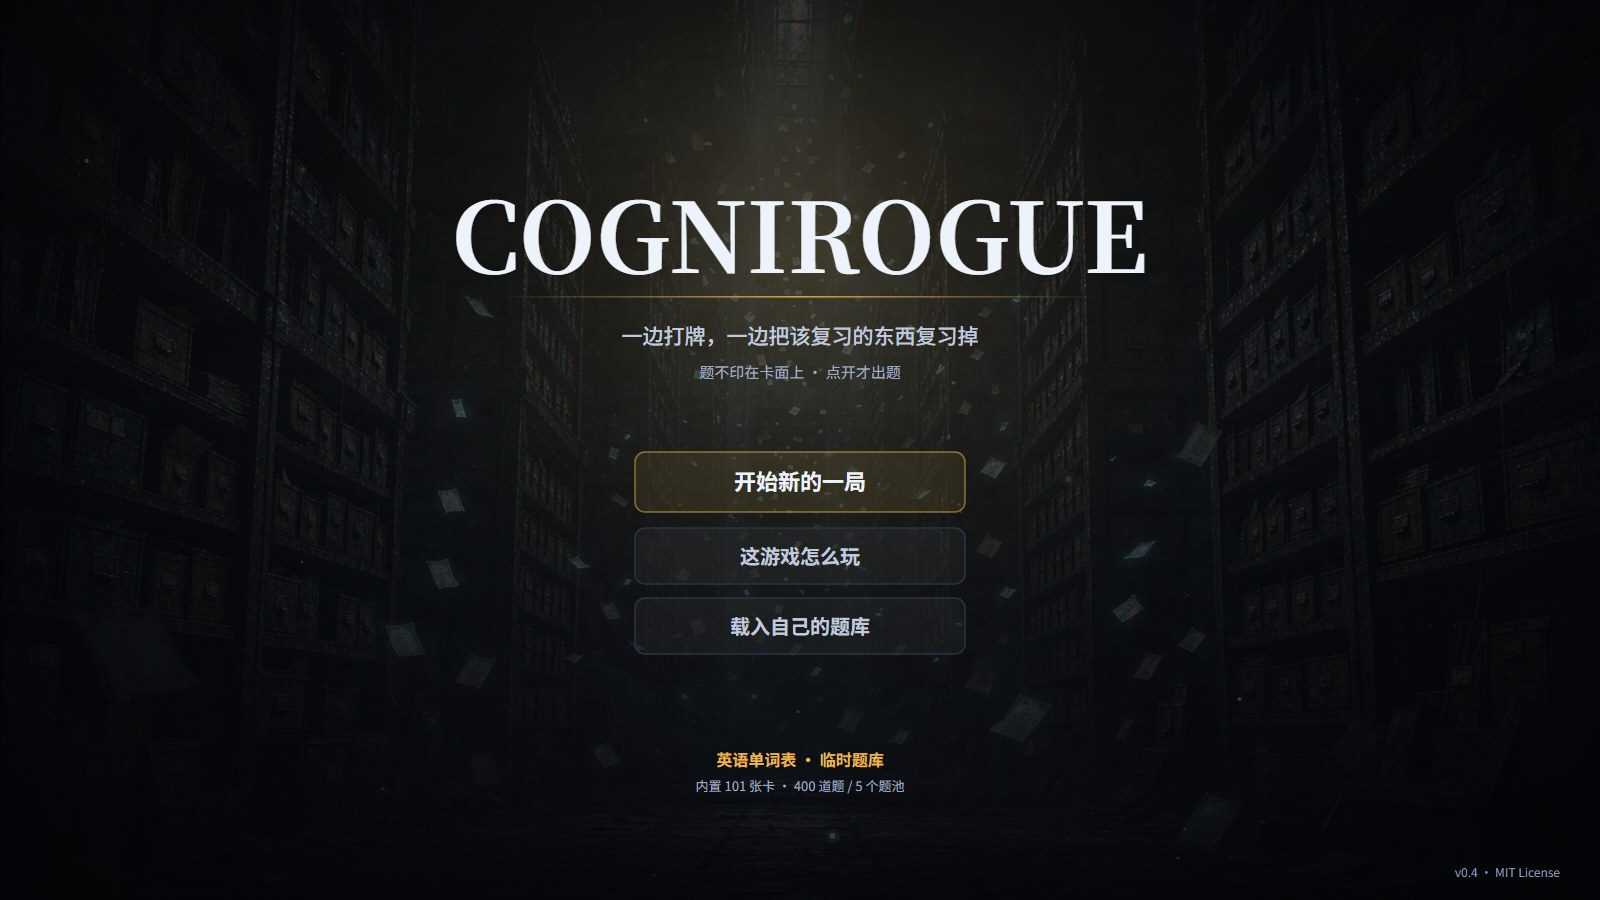
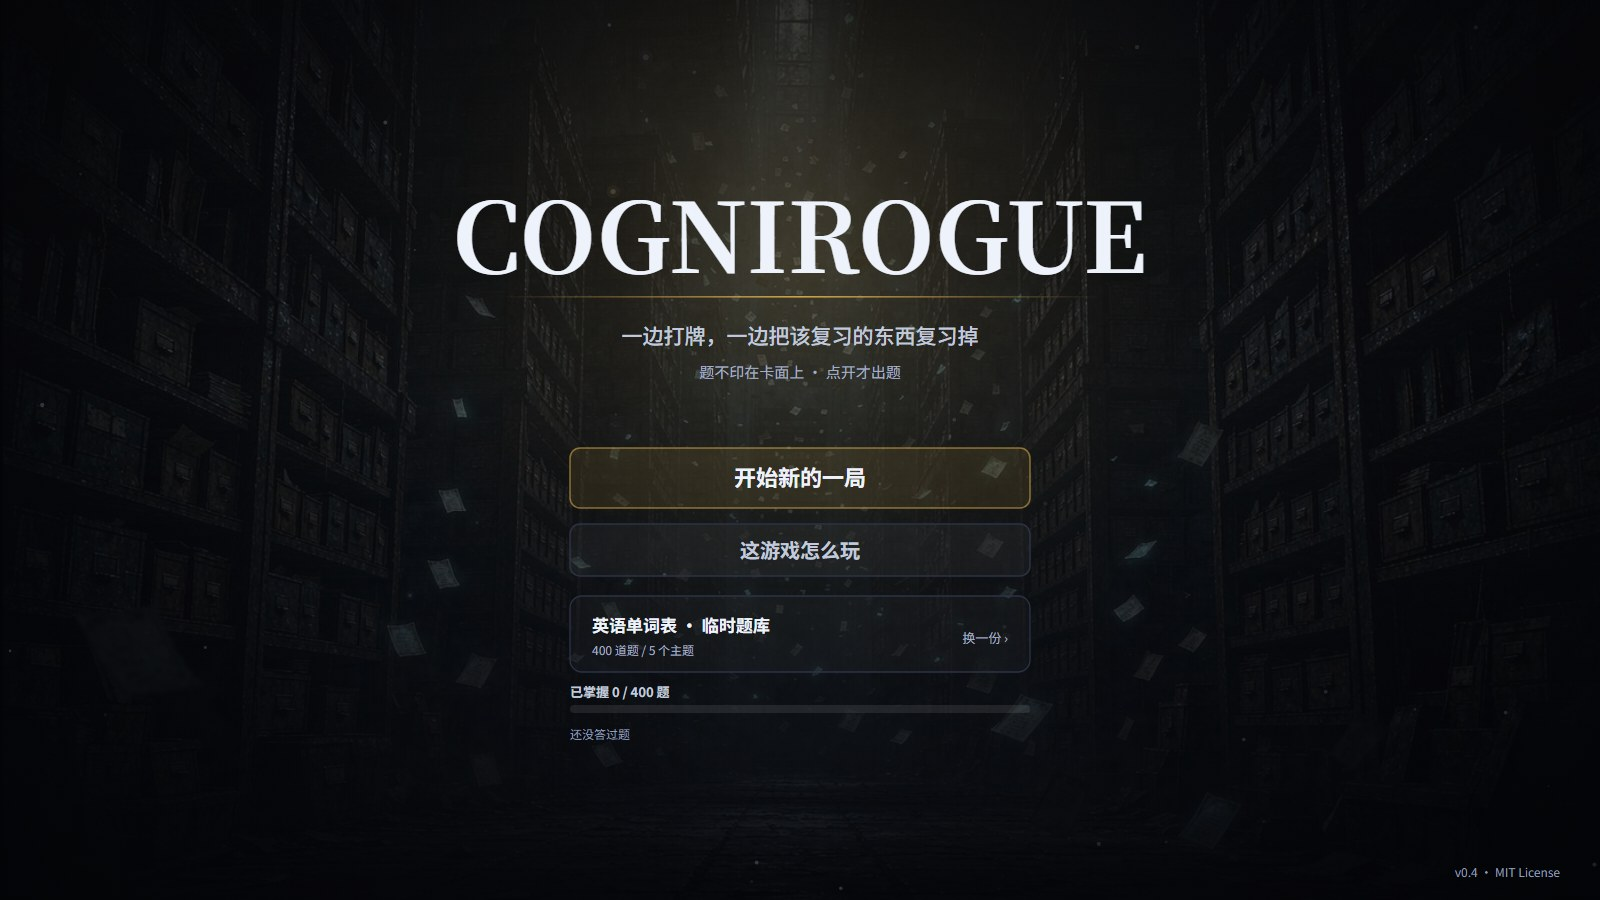
feat: 首页去掉重复的题库入口，补上学习进度
三件事凑在首页上：

1. **「题库」写了两遍。** 它既是第三颗按钮，又是底部单独一行文字（题库名 + 题数），
   中间空着一大块。现在合成一张卡片：名字 + 题数/主题数 + 「换一份 ›」，点哪儿都能进面板。
2. **按钮和卡片左边缘不齐。** 按钮 330 宽、卡片 460 宽，各自居中就成了两条错开的竖线。
   现在统一 460，一列。
3. **看不见的进度。** 答对满 3 次的题不再抽（`isRetired`），这个"已掌握"数从来没在任何
   界面上出现过 —— 玩家打了十局，首页和一局没打过时一模一样。现在显示
   已掌握 X/400、正确率、累计答题数，一条 8px 的进度条（6px 会读成一条分隔线）。

进度由 `library/stage.ts` 的 `bankProgress()` 算：遍历当前题库数退役的题，
再按题库里出现的主题回读章节记忆。只读不写 —— 不走 `stageMemOf()`，
那是写路径，会顺手给没答过的主题建空条目。只数当前题库里的主题，
所以换题库不会让进度条凭空涨一截。

顺带重拍 README 的两张首页图（只这两张：其余 25 张画面没变，
跑 `npm run shots` 会把它们全部重写一遍，diff 里全是噪声）。

diff --git a/src/scenes/title.ts b/src/scenes/title.ts
@@ -1,12 +1,18 @@
-import { g, VH, VW } from '../gfx/canvas';
+import { g, roundRect, VH, VW } from '../gfx/canvas';
 import { C, FONT_TITLE, withAlpha } from '../gfx/theme';
 import { action, text } from '../gfx/ui';
+import { hover, onClick } from '../input';
 import { G } from '../core/infra';
 import { resumeRun, runSaveInfo } from '../core/journey';
-import { countQuestions, sourceBank } from '../core/library';
-import { PACK } from '../core/cards';
+import { bankProgress, countQuestions, sourceBank } from '../core/library';
 
-/** 世界层：只画标题、按钮和它们的热区；书架由 layers.ts 的背景层统一画。 */
+/**
+ * 世界层：只画标题、按钮、题库卡片、进度和它们的热区；书架由 layers.ts 的背景层统一画。
+ *
+ * 首页只回答三个问题：**接着打还是开新的**、**这些题是哪来的**、**我学到哪了**。
+ * 之前「题库」既是一颗按钮、又是底部一段单独的文字，中间空着一大片 ——
+ * 同一个东西写两遍，还互相离得很远。现在合成一张卡片，空出来的位置放进度。
+ */
 export function drawTitle(t: number, openHelp: () => void, openPack: () => void) {
   const cx = VW / 2;
 
@@ -40,14 +46,15 @@ export function drawTitle(t: number, openHelp: () => void, openPack: () => void)
     size: 15, align: 'center', color: C.dim,
   });
 
-  const bw = 330;
+  // 按钮、题库卡片、进度条共用同一列宽：三块各自居中最容易看出"左边缘不齐"
+  const bw = 460;
   const bx = cx - bw / 2;
-  let by = 452;
 
   // 有断点就把它摆到第一位。100 层的一局接近一小时，首页上「继续」比「开始」更常用；
   // 反过来，一旦按错「开始新的一局」，代价不是十分钟，是整座塔：
   // 所以破坏性的那个降成次按钮，要点的那个是唯一带金边的。
   const save = runSaveInfo();
+  let cardTop: number;
   if (save) {
     action(bx, 424, bw, 60, '继续这一局', () => { resumeRun(); }, 'primary', {
       size: 23, sub: `第 ${save.stage} 幕 · ${save.stageName}`,
@@ -55,37 +62,75 @@ export function drawTitle(t: number, openHelp: () => void, openPack: () => void)
     text(`第 ${save.floor}/100 层 · ${save.hp}/${save.maxHp} 生命`, cx, 506, {
       size: 13, align: 'center', color: C.dim,
     });
-    by = 526;
-    action(bx, by, bw, 50, '开始新的一局', () => { G.panel = { k: 'boon' }; }); by += 62;
-    action(bx, by, bw, 50, '这游戏怎么玩', openHelp); by += 62;
-    action(bx, by, bw, 50, '题库', openPack);
+    action(bx, 524, bw, 50, '开始新的一局', () => { G.panel = { k: 'boon' }; });
+    action(bx, 586, bw, 50, '这游戏怎么玩', openHelp);
+    cardTop = 654;
   } else {
-    action(bx, by, bw, 60, '开始新的一局', () => { G.panel = { k: 'boon' }; }, 'primary', { size: 22 });
-    by += 76;
-    action(bx, by, bw, 56, '这游戏怎么玩', openHelp);
-    by += 70;
-    action(bx, by, bw, 56, '题库', openPack);
+    action(bx, 448, bw, 60, '开始新的一局', () => { G.panel = { k: 'boon' }; }, 'primary', { size: 22 });
+    action(bx, 524, bw, 52, '这游戏怎么玩', openHelp);
+    cardTop = 596;
   }
 
-  // 卡池是内置的、题库是可换的，两行分开写才不会让人以为导入会换牌。
-  // "进度自动存在本地"撤了：这句话是承诺不是数据，帮助页里讲得比这里清楚。
-  const py = save ? 744 : 760;
-  // 首页展示的是**来源题库**（载入的那份），不是某一幕切出来的切片。
-  // 数的是**题池**：卡和题解耦之后，玩家真正会遇到的分组是题库里的 `## 主题`。
-  const src = sourceBank();
-  text(src.name, cx, py, { size: 16, align: 'center', color: C.gold, weight: 700 });
-  text(
-    `内置 ${PACK.cards.length} 张卡 · ${countQuestions(src)} 道题 / ${Object.keys(src.byTopic).length} 个题池`,
-    cx, py + 26, { size: 13, align: 'center', color: C.dim },
-  );
-
-  if (G.deck.length) {
-    text('开新局用固定的 10 张起手牌。', cx, py + 50, {
-      size: 12, align: 'center', color: C.faint,
-    });
-  }
+  drawBankCard(cardTop, openPack);
+  drawProgress(cardTop + 96);
 
   // 版本和许可合成右下角一行。左下原来还有一行"v0.4 · TypeScript + Canvas"：
   // 技术栈对玩家没有意义，对读源码的人 README 里也有。
   text('v0.4 · MIT License', VW - 40, VH - 28, { size: 12, color: C.faint, align: 'right' });
+}
+
+/** 现在用的是哪份题库 —— 名字、题数、主题数都在这里，点开是题库面板。 */
+function drawBankCard(y: number, openPack: () => void) {
+  const w = 460;
+  const x = VW / 2 - w / 2;
+  const h = 76;
+  const hv = hover(x, y, w, h);
+
+  roundRect(x, y, w, h, 12);
+  g.fillStyle = hv ? 'rgba(255,255,255,.06)' : 'rgba(255,255,255,.028)';
+  g.fill();
+  g.strokeStyle = hv ? withAlpha(C.gold, 0.7) : C.line;
+  g.lineWidth = 1.3;
+  g.stroke();
+
+  // 首页展示的是**来源题库**（正在用的那份），不是某一幕切出来的切片。
+  // 数的是**题池**：卡和题解耦之后，玩家真正会遇到的分组是题库里的 `## 主题`。
+  const src = sourceBank();
+  text(src.name, x + 22, y + 30, { size: 17, weight: 700, color: C.ink, maxW: w - 140 });
+  text(`${countQuestions(src)} 道题 / ${Object.keys(src.byTopic).length} 个主题`,
+    x + 22, y + 54, { size: 12, color: C.dim });
+  text('换一份 ›', x + w - 22, y + 42, { size: 13, color: hv ? C.gold : C.dim, align: 'right' });
+
+  onClick(x, y, w, h, openPack, 'title:bank');
+}
+
+/**
+ * 学到哪了：答对满 `BAL.retireAt` 次的题不再抽，所以"已掌握"就是这道进度条。
+ * 一个学习游戏，首页上一眼能看到自己攒了多少，比知道题库有几百道题重要得多。
+ */
+function drawProgress(y: number) {
+  const w = 460;
+  const x = VW / 2 - w / 2;
+  const p = bankProgress();
+  const rate = p.answers ? Math.round((p.ok / p.answers) * 100) : 0;
+
+  text(`已掌握 ${p.mastered} / ${p.total} 题`, x, y, { size: 13, weight: 600, color: C.ink2 });
+  if (p.answers) {
+    text(`正确率 ${rate}%`, x + w, y, { size: 13, color: C.dim, align: 'right' });
+  }
+
+  // 8px 才看得出是"进度"，6px 会读成一条分隔线
+  roundRect(x, y + 13, w, 8, 4);
+  g.fillStyle = 'rgba(255,255,255,.09)';
+  g.fill();
+  if (p.total && p.mastered) {
+    // 一道题也是看得见的一点，别让"刚掌握 1 题"渲染成空条
+    roundRect(x, y + 13, Math.max(8, (w * p.mastered) / p.total), 8, 4);
+    g.fillStyle = C.gold;
+    g.fill();
+  }
+
+  text(p.answers ? `累计 ${p.answers} 次答题` : '还没答过题', x, y + 42, {
+    size: 12, color: C.faint,
+  });
 }

diff --git a/src/core/library/stage.ts b/src/core/library/stage.ts
@@ -3,7 +3,7 @@ import { shuffle } from '../infra/util';
 import { BAL } from '../model/data';
 import type { Question } from '../model/types';
 import { allQuestions } from './bank';
-import { rightCount } from './stagemem';
+import { STAGE_MEM, rightCount } from './stagemem';
 
 /**
  * 本局的**临时题库**。
@@ -35,6 +35,34 @@ export function isRetired(q: Question): boolean {
 /** 一个主题里还没退役的题。 */
 export function liveQuestionsOf(topic: string): Question[] {
   return allQuestions().filter((q) => q.topic === topic && !isRetired(q));
+}
+
+/**
+ * 首页要显示的那几个数：当前题库有多少题、其中多少道已经答对满 `BAL.retireAt` 次、
+ * 累计答过多少次、对了多少次。
+ *
+ * 只数**当前题库里出现的主题**：章节记忆按主题名存，切到另一份题库之后，
+ * 上一份的历史不该被算进这一份的进度 —— 否则换题库会让进度条看起来凭空涨了一截。
+ * 只读记忆，不 `stageMemOf()`（那是写路径，会顺手建空条目）。
+ */
+export function bankProgress(): { total: number; mastered: number; answers: number; ok: number } {
+  const all = allQuestions();
+  const topics = new Set<string>();
+  let mastered = 0;
+  for (const q of all) {
+    topics.add(q.topic);
+    if (isRetired(q)) mastered += 1;
+  }
+
+  let answers = 0;
+  let ok = 0;
+  for (const topic of topics) {
+    const e = STAGE_MEM[topic];
+    if (!e) continue;
+    answers += e.ok + e.bad;
+    ok += e.ok;
+  }
+  return { total: all.length, mastered, answers, ok };
 }
 
 /**

diff --git a/CHANGELOG.md b/CHANGELOG.md
@@ -4,6 +4,19 @@
 
 ## 未发布
 
+### 首页：一处重复、一片空白，和一个看不见的进度
+
+「题库」原来既是第三颗按钮、又是底部单独一行文字——同一个东西写两遍，中间还空着一大块。
+现在合成一张卡片：名字 + 题数/主题数 + 「换一份 ›」，点卡片任何位置都进题库面板；
+它和上面的按钮同一列宽（原来按钮 330、卡片 460，左边缘是歪的）。
+
+空出来的位置放**学习进度**：已掌握（答对满 3 次、以后不再抽的题）/ 总数、正确率、
+累计答题数。这三个数以前只存在 `cognirogue.stage.v1` 里，玩家在任何界面上都看不到——
+一个学习游戏，首页看不见自己攒了多少，"复习"就只是打牌时的副作用。
+
+进度只数**当前题库里的主题**：章节记忆按主题名存，切到另一份题库时，
+上一份的历史不该算进这一份。
+
 ### 题库：能看见、能切换、存得住
 
 以前标题页只有一行统计字和一个「载入自己的题库」——点开是文件选择器，导入的题库

diff --git a/README.md b/README.md
@@ -67,6 +67,9 @@ npm run build        # 产出 dist/index.html，约 1.8 MB，双击就玩
 
 ![有断点时的首页](docs/titlesave.jpg)
 
+首页只回答三个问题：接着打还是开新的、这些题是哪来的（题库卡片，点开换一份）、
+你学到哪了（已掌握 / 正确率 / 累计答题）。「已掌握」= 答对满 3 次、以后不再抽的题。
+
 | 幕 | 场地 | 这一带的规矩 | 幕末 Boss |
 | --- | --- | --- | --- |
 | 1 | 目录厅 | 什么机制都没有，只教"一张牌 = 一道题" | 编目者 |
